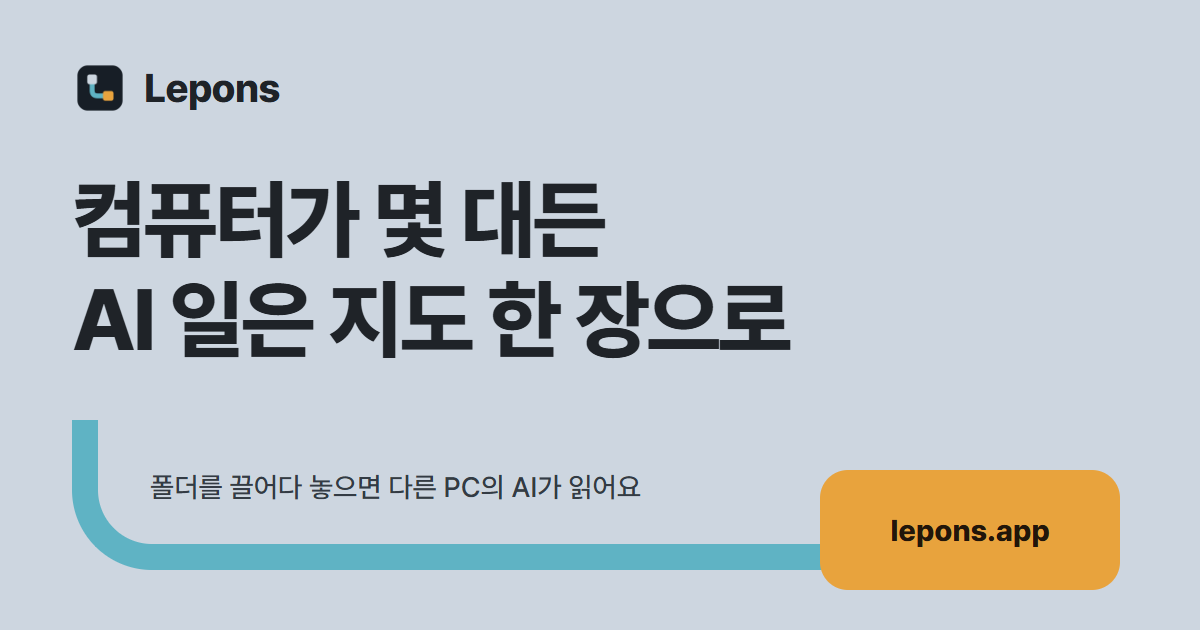
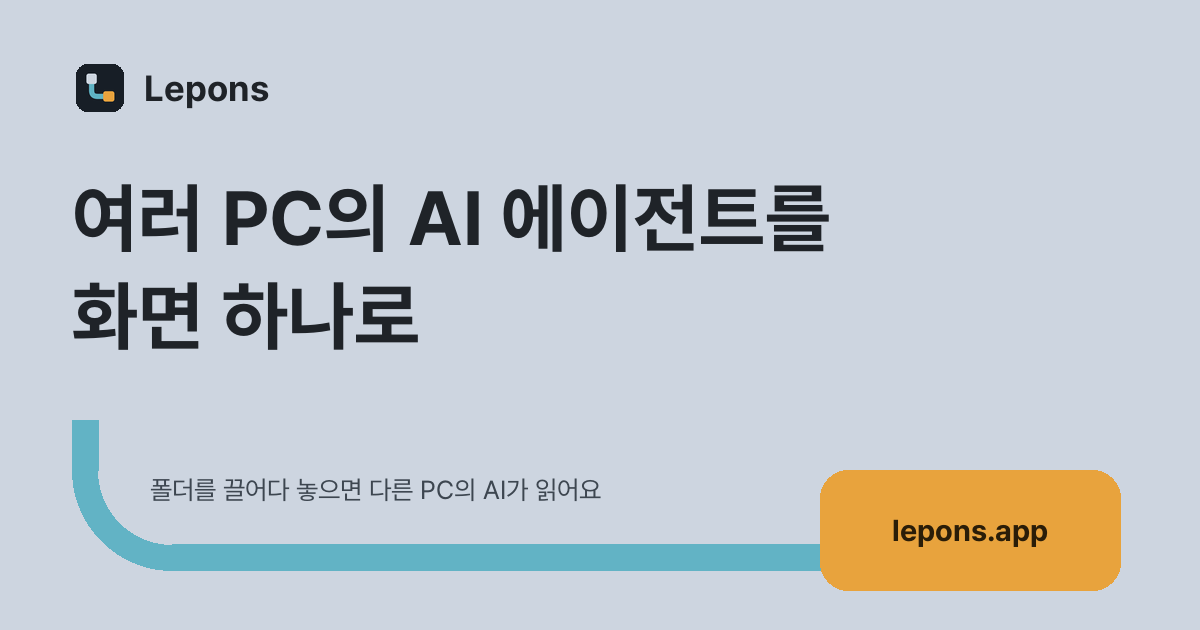
docs(site): share card with the current headline

diff --git a/site/en/index.html b/site/en/index.html
@@ -4,7 +4,7 @@
 <meta charset="utf-8">
 <meta name="viewport" content="width=device-width, initial-scale=1">
 <title>Lepons: one screen for the AI agents on all your PCs</title>
-<meta name="description" content="Drag a folder onto another computer and the AI there can read the code. See on one map which AI is working and which is waiting for you, and carry on from your phone when you are away. Free for Windows and macOS.">
+<meta name="description" content="Drag a folder onto another computer and the AI there can read the code. See which AI is working and which is waiting for you on one screen, and carry on from your phone when you are away. Free and open source for Windows and macOS.">
 <link rel="canonical" href="https://lepons.app/en/">
 <link rel="alternate" hreflang="ko" href="https://lepons.app/">
 <link rel="alternate" hreflang="en" href="https://lepons.app/en/">
@@ -15,9 +15,9 @@
 <meta property="og:type" content="website">
 <meta property="og:site_name" content="Lepons">
 <meta property="og:title" content="Lepons: one screen for the AI agents on all your PCs">
-<meta property="og:description" content="Drag a folder onto another computer and the AI there can read the code. See which AI is waiting for you on one map, and carry on from your phone.">
+<meta property="og:description" content="Drag a folder onto another computer and the AI there can read the code. Find the AI waiting for you on one screen, and carry on from your phone.">
 <meta property="og:url" content="https://lepons.app/en/">
-<meta property="og:image" content="https://lepons.app/og.png">
+<meta property="og:image" content="https://lepons.app/og-en.png">
 <meta property="og:image:width" content="1200">
 <meta property="og:image:height" content="630">
 <meta property="og:locale" content="en_US">

diff --git a/site/index.html b/site/index.html
@@ -4,7 +4,7 @@
 <meta charset="utf-8">
 <meta name="viewport" content="width=device-width, initial-scale=1">
 <title>Lepons: 여러 PC의 AI 에이전트를 화면 하나로</title>
-<meta name="description" content="폴더를 다른 PC로 끌어다 놓으면 그 PC의 AI가 코드를 읽어요. 어느 AI가 일하고 어느 AI가 내 답을 기다리는지 지도로 보고 밖에서는 폰으로 이어서 해요. Windows와 macOS용 무료 앱이에요.">
+<meta name="description" content="폴더를 다른 PC로 끌어다 놓으면 그 PC의 AI가 코드를 읽어요. 어느 AI가 일하고 어느 AI가 내 답을 기다리는지 한 화면에서 보고 자리를 비우면 폰으로 이어서 해요. Windows와 macOS용 무료 오픈소스 앱이에요.">
 <link rel="canonical" href="https://lepons.app/">
 <link rel="alternate" hreflang="ko" href="https://lepons.app/">
 <link rel="alternate" hreflang="en" href="https://lepons.app/en/">
@@ -15,7 +15,7 @@
 <meta property="og:type" content="website">
 <meta property="og:site_name" content="Lepons">
 <meta property="og:title" content="Lepons: 여러 PC의 AI 에이전트를 화면 하나로">
-<meta property="og:description" content="폴더를 다른 PC로 끌어다 놓으면 그 PC의 AI가 코드를 읽어요. 어느 AI가 내 답을 기다리는지 지도로 보고 밖에서는 폰으로 이어서 해요.">
+<meta property="og:description" content="폴더를 다른 PC로 끌어다 놓으면 그 PC의 AI가 코드를 읽어요. 내 답을 기다리는 AI를 한 화면에서 찾고 밖에서는 폰으로 이어서 해요.">
 <meta property="og:url" content="https://lepons.app/">
 <meta property="og:image" content="https://lepons.app/og.png">
 <meta property="og:image:width" content="1200">

diff --git a/site/og.py b/site/og.py
@@ -1,0 +1,46 @@
+"""The share card (og.png, og-en.png) for lepons.app: python site/og.py. Same layout as before, current headline."""
+from pathlib import Path
+from PIL import Image, ImageDraw, ImageFont
+
+site = Path(__file__).resolve().parent
+fonts = site.parent / 'mobile/assets/fonts'
+icon = Image.open(site.parent / 'mobile/assets/icon.png').convert('RGBA')
+ground, ink, muted, teal, amber, on_amber = '#cdd5e0', '#1f2328', '#3d4650', '#62b3c5', '#e8a33d', '#2a1d08'
+
+
+def font(size, name='Pretendard-Bold.otf'):
+    return ImageFont.truetype(str(fonts / name), size)
+
+
+def fit(d, text, width, size, name='Pretendard-Bold.otf'):
+    while d.textlength(text, font=font(size, name)) > width:
+        size -= 2
+    return font(size, name)
+
+
+cards = {
+    'og.png': (['여러 PC의 AI 에이전트를', '화면 하나로'], '폴더를 끌어다 놓으면 다른 PC의 AI가 읽어요'),
+    'og-en.png': (['AI agents on all your PCs,', 'on one screen'], "Drag a folder over and another PC's AI reads it"),
+}
+for name, (lines, sub) in cards.items():
+    im = Image.new('RGB', (1200, 630), ground)
+    d = ImageDraw.Draw(im)
+    mark = icon.resize((48, 48), Image.Resampling.LANCZOS)
+    corner = Image.new('L', (48, 48), 0)
+    ImageDraw.Draw(corner).rounded_rectangle((0, 0, 47, 47), radius=11, fill=255)
+    im.paste(mark, (76, 64), corner)
+    d.text((144, 66), 'Lepons', font=font(36), fill=ink)
+    head = fit(d, max(lines, key=len), 1050, 76)
+    d.text((72, 172), lines[0], font=head, fill=ink)
+    d.text((72, 270), lines[1], font=head, fill=ink)
+    # The icon's line: down from the top-left, round a wide corner, into the amber pill.
+    d.rectangle((72, 420, 98, 470), fill=teal)
+    d.arc((72, 370, 272, 570), 90, 180, fill=teal, width=26)
+    d.rectangle((172, 544, 840, 570), fill=teal)
+    d.text((150, 474), sub, font=fit(d, sub, 640, 26, 'Pretendard-Regular.otf'), fill=muted)
+    d.rounded_rectangle((820, 470, 1120, 590), radius=28, fill=amber)
+    url = font(30)
+    w = d.textlength('lepons.app', font=url)
+    d.text((970 - w / 2, 512), 'lepons.app', font=url, fill=on_amber)
+    im.save(site / name, optimize=True)
+    print(name, im.size)

diff --git a/site/README.md b/site/README.md
@@ -4,11 +4,11 @@ Lepons의 공개 홈이에요. 소개(`index.html`, 영어는 `en/index.html`)·
 
 ## 올리기 (Cloudflare Workers 정적 자산)
 
-최신 wrangler는 Pages 명령을 Workers로 넘기므로 Worker `lepons`로 올려요. `site/`를 통째로 복사하고 README만 빼서 올려요. 파일이나 폴더를 더해도 이 명령은 그대로예요.
+최신 wrangler는 Pages 명령을 Workers로 넘기므로 Worker `lepons`로 올려요. `site/`를 통째로 복사하고 README와 `og.py`만 빼서 올려요. 파일이나 폴더를 더해도 이 명령은 그대로예요.
 
 ```sh
 npx wrangler login            # 처음 한 번
-rm -rf /tmp/site-out && mkdir -p /tmp/site-out && cp -r site/. /tmp/site-out/ && rm /tmp/site-out/README.md
+rm -rf /tmp/site-out && mkdir -p /tmp/site-out && cp -r site/. /tmp/site-out/ && rm /tmp/site-out/README.md /tmp/site-out/og.py
 npx wrangler deploy --name lepons --assets /tmp/site-out --compatibility-date 2026-10-30 --domain lepons.app
 ```
 
@@ -23,6 +23,7 @@ npx wrangler deploy --name lepons --assets /tmp/site-out --compatibility-date 20
 
 - **iPhone 상태**: `index.html`과 `en/index.html`의 내려받기 구역에 있는 주석 바로 아래 한 줄만 바꾸면 돼요. App Store 승인 전에는 "App Store에서 받기"라고 적지 않아요. Google Play 문구도 공개 출시 뒤에 고쳐요.
 - **그림**: 첫 화면의 지도와 폰은 HTML 안의 SVG이고, 상태가 바뀌는 시간표는 `style.css`의 `t1w`, `t1a` 같은 keyframes예요. 움직임을 끄면 입력 대기, 작업 중, 끝남이 함께 보이는 멈춘 그림이 나와요.
+- **공유 카드**: 링크를 붙여 넣으면 나오는 카드는 `og.png`(한국어)와 `og-en.png`(영어)예요. 헤드라인을 바꾸면 `python site/og.py`로 다시 만들어요.
 - **글꼴**: `fonts/lepons-sans.woff2`는 Pretendard에서 사이트에 쓰는 글자만 추린 파일이에요(라이선스 `fonts/LICENSE.txt`). 새 글자를 쓰면 그 글자만 시스템 글꼴로 보이니, 문구를 많이 고쳤다면 다시 만들어요.
 
   ```sh
